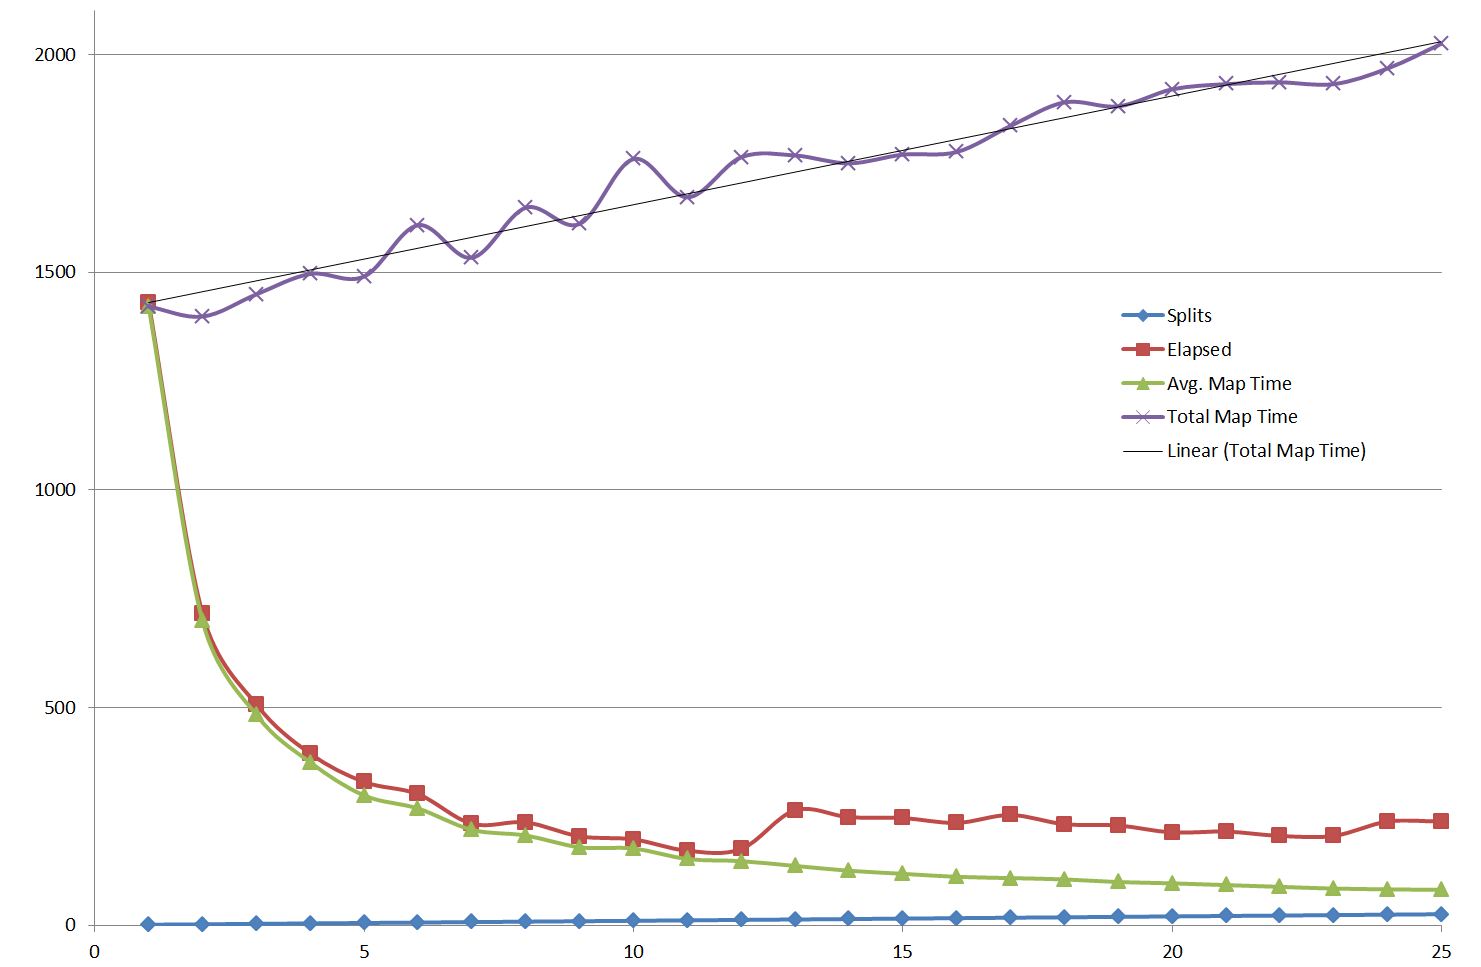
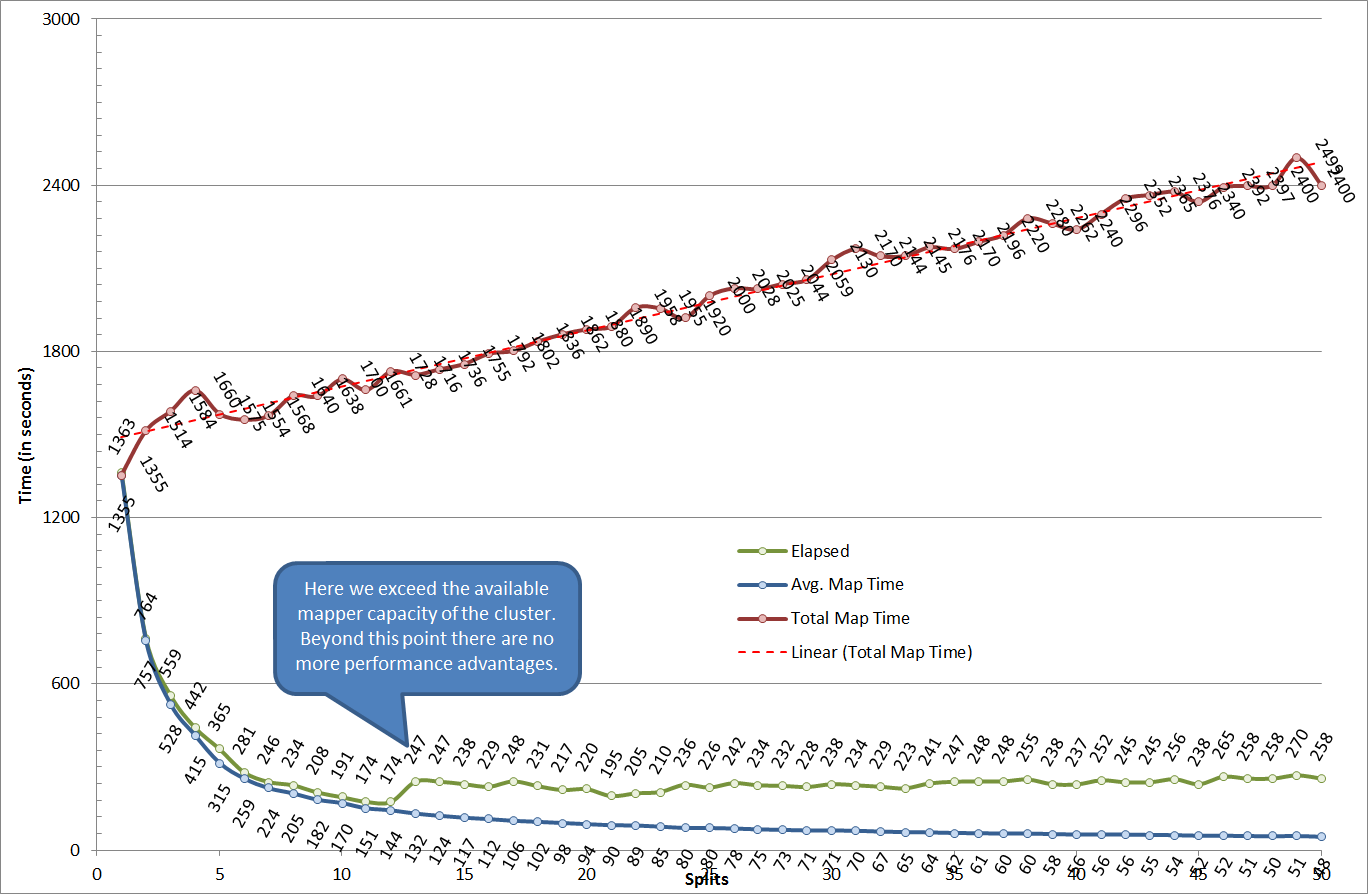
New benchmark run from 1 to 50 splits

diff --git a/Benchmark/README.md b/Benchmark/README.md
@@ -21,38 +21,66 @@ This cluster was fully idle during all benchmark runs.
 All output files were checked and resulted in the same md5 of the output file.
 
 #Results
+
 ##A 1.1 GB input file doing a wordcount.
+
+On a single machine simply running a `gzip -t <file>` takes about 45 seconds. So in general we can say that the longest running mapper cannot get below the 45 seconds.
 
 ![Graph of the results](Benchmark.png)
 
 Splitsize | Splits | Elapsed | Avg. Map Time | Total Map Time
  --:|--:|--:|--:|--:|
-GzipCodec  |  1 | 1470 sec  | 1462 sec | 1462 sec |
-1101900001 |  1 | 1430 sec  | 1421 sec | 1421 sec |
- 550950001 |  2 |  715 sec  |  699 sec | 1398 sec |
- 367300001 |  3 |  507 sec  |  483 sec | 1449 sec |
- 275475001 |  4 |  394 sec  |  374 sec | 1496 sec |
- 220380001 |  5 |  329 sec  |  298 sec | 1490 sec |
- 183650001 |  6 |  301 sec  |  268 sec | 1608 sec |
- 157414286 |  7 |  233 sec  |  219 sec | 1533 sec |
- 137737501 |  8 |  236 sec  |  206 sec | 1648 sec |
- 122433334 |  9 |  204 sec  |  179 sec | 1611 sec |
- 110190001 | 10 |  197 sec  |  176 sec | 1760 sec |
- 100172728 | 11 |  171 sec  |  152 sec | 1672 sec |
-  91825001 | 12 |  175 sec  |  147 sec | 1764 sec |
-  84761539 | 13 |  264 sec  |  136 sec | 1768 sec |
-  78707143 | 14 |  248 sec  |  125 sec | 1750 sec |
-  73460001 | 15 |  246 sec  |  118 sec | 1770 sec |
-  68868751 | 16 |  235 sec  |  111 sec | 1776 sec |
-  64817648 | 17 |  253 sec  |  108 sec | 1836 sec |
-  61216667 | 18 |  232 sec  |  105 sec | 1890 sec |
-  57994737 | 19 |  229 sec  |   99 sec | 1881 sec |
-  55095001 | 20 |  213 sec  |   96 sec | 1920 sec |
-  52471429 | 21 |  215 sec  |   92 sec | 1932 sec |
-  50086364 | 22 |  205 sec  |   88 sec | 1936 sec |
-  47908696 | 23 |  205 sec  |   84 sec | 1932 sec |
-  45912501 | 24 |  238 sec  |   82 sec | 1968 sec |
-  44076001 | 25 |  238 sec  |   81 sec | 2025 sec |
+GzipCodec | 1 | 1401 | 1393 | 1393 
+1101900001 | 1 | 1363 | 1355 | 1355 
+550950001 | 2 | 764 | 757 | 1514 
+367300001 | 3 | 559 | 528 | 1584 
+275475001 | 4 | 442 | 415 | 1660 
+220380001 | 5 | 365 | 315 | 1575 
+183650001 | 6 | 281 | 259 | 1554 
+157414286 | 7 | 246 | 224 | 1568 
+137737501 | 8 | 234 | 205 | 1640 
+122433334 | 9 | 208 | 182 | 1638 
+110190001 | 10 | 191 | 170 | 1700 
+100172728 | 11 | 174 | 151 | 1661 
+91825001 | 12 | 174 | 144 | 1728 
+84761539 | 13 | 247 | 132 | 1716 
+78707143 | 14 | 247 | 124 | 1736 
+73460001 | 15 | 238 | 117 | 1755 
+68868751 | 16 | 229 | 112 | 1792 
+64817648 | 17 | 248 | 106 | 1802 
+61216667 | 18 | 231 | 102 | 1836 
+57994737 | 19 | 217 | 98 | 1862 
+55095001 | 20 | 220 | 94 | 1880 
+52471429 | 21 | 195 | 90 | 1890 
+50086364 | 22 | 205 | 89 | 1958 
+47908696 | 23 | 210 | 85 | 1955 
+45912501 | 24 | 236 | 80 | 1920 
+44076001 | 25 | 226 | 80 | 2000 
+42380770 | 26 | 242 | 78 | 2028 
+40811112 | 27 | 234 | 75 | 2025 
+39353572 | 28 | 232 | 73 | 2044 
+37996552 | 29 | 228 | 71 | 2059 
+36730001 | 30 | 238 | 71 | 2130 
+35545162 | 31 | 234 | 70 | 2170 
+34434376 | 32 | 229 | 67 | 2144 
+33390910 | 33 | 223 | 65 | 2145 
+32408824 | 34 | 241 | 64 | 2176 
+31482858 | 35 | 247 | 62 | 2170 
+30608334 | 36 | 248 | 61 | 2196 
+29781082 | 37 | 248 | 60 | 2220 
+28997369 | 38 | 255 | 60 | 2280 
+28253847 | 39 | 238 | 58 | 2262 
+27547501 | 40 | 237 | 56 | 2240 
+26875610 | 41 | 252 | 56 | 2296 
+26235715 | 42 | 245 | 56 | 2352 
+25625582 | 43 | 245 | 55 | 2365 
+25043182 | 44 | 256 | 54 | 2376 
+24486667 | 45 | 238 | 52 | 2340 
+23954348 | 46 | 265 | 52 | 2392 
+23444681 | 47 | 258 | 51 | 2397 
+22956251 | 48 | 258 | 50 | 2400 
+22487756 | 49 | 270 | 51 | 2499 
+22038001 | 50 | 258 | 48 | 2400 
 
 ##A 220 MB input file doing a wordcount.
 Splitsize | Splits | Elapsed | Avg. Map Time | Total Map Time
